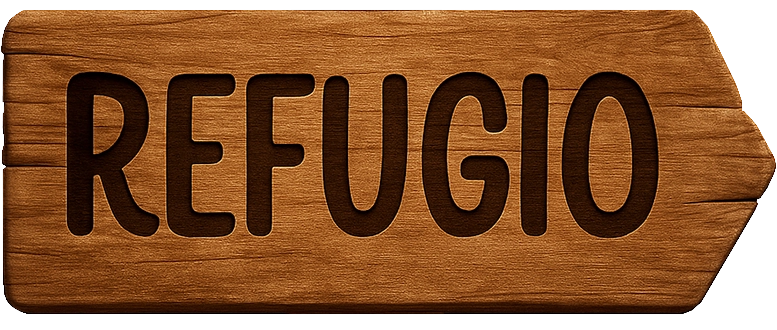
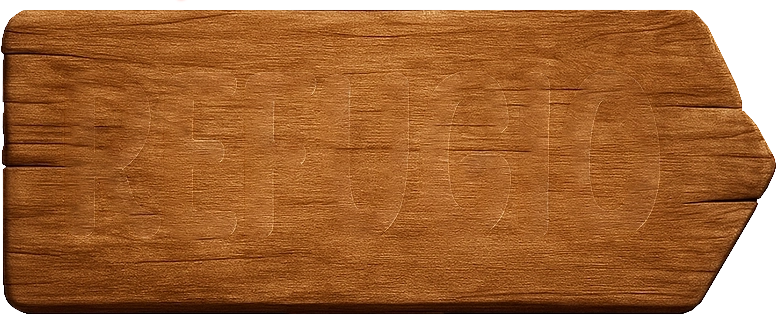
feat(style): Mejoras sobre el estilo del navbar

Changed region(s): [[0.0618, 0.2121, 0.8649, 0.7273]]

diff --git a/src/components/Navbar/Navbar.jsx b/src/components/Navbar/Navbar.jsx
@@ -6,19 +6,28 @@ const Navbar = () => {
   return (
     <nav className={styles.navbar}>
       <Link to="/">
-        <img src="/Cartel.webp" alt="Cartel Inicio" className={`${styles.cartel} ${styles.cartelInicio}`} />
+        <img src="/Cartel.webp" alt="Cartel Inicio" className={styles.cartel}/>
+        <span className={styles.texto}>Inicio</span>
       </Link>
+
       <Link to="/tienda">
-        <img src="/Cartel.webp" alt="Cartel Tienda" className={`${styles.cartel} ${styles.cartelTienda}`} />
+        <img src="/Cartel.webp" alt="Cartel Tienda" className={styles.cartel}/>
+        <span className={styles.texto}>Tienda</span>
       </Link>
+
       <Link to="/test">
-        <img src="/Cartel.webp" alt="Cartel Test" className={`${styles.cartel} ${styles.cartelTest}`} />
+        <img src="/Cartel.webp" alt="Cartel Test" className={styles.cartel}/>
+        <span className={styles.texto}>Test</span>
       </Link>
+
       <Link to="/login">
-        <img src="/Cartel.webp" alt="Cartel Login" className={`${styles.cartel} ${styles.cartelLogin}`} />
+        <img src="/Cartel.webp" alt="Cartel Login" className={styles.cartel}  />
+        <span className={styles.texto}>Login</span>
       </Link>
+
       <Link to="/registro">
-        <img src="/Cartel.webp" alt="Cartel Registro" className={`${styles.cartel} ${styles.cartelRegistro}`} />
+        <img src="/Cartel.webp" alt="Cartel Registro" className={styles.cartel}/>
+        <span className={styles.texto}>Registro</span>
       </Link>
     </nav>
   )

diff --git a/src/components/Navbar/Navbar.module.css b/src/components/Navbar/Navbar.module.css
@@ -2,34 +2,35 @@
   position: absolute;
   top: 0;
   left: 0;
-  z-index: 3; /* sobre el fondo */
+  z-index: 3; 
   display: flex;
   flex-direction: column;
-  gap: 15%; /* separación vertical */
+
 }
 
 .cartel {
-  height: 100px; /* Ajusta según quieras */
+  height: 75px; 
   object-fit: contain;
-}
-
-/* Posiciones individuales */
-.cartelInicio {
   margin-top: 5%;
 }
 
-.cartelTienda {
-  margin-top: 5%;
+
+
+.navbar a {
+  position: relative;
+  display: inline-block;
 }
 
-.cartelTest {
-  margin-top: 5%;
-}
-
-.cartelLogin {
-  margin-top: 5%;
-}
-
-.cartelRegistro {
-  margin-top: 5%;
+.texto {
+  position: absolute;
+  top: 50%;
+  left: 50%;
+  transform: translate(-50%, -50%);
+  font-family: 'Chewy';
+  font-size: 2rem;           
+  letter-spacing: 1px;
+  color: #000000;
+  text-shadow: 2px 2px 4px rgba(48, 43, 36, 0.6);
+  white-space: nowrap;
+  pointer-events: none;           
 }

diff --git a/src/pages/Home.jsx b/src/pages/Home.jsx
@@ -5,6 +5,7 @@ import Navbar from '@/components/Navbar/Navbar'
 import PerroCard from '../components/PerroCard/PerroCard'
 import usePerros from '../hooks/usePerros'
 import styles from './Home.module.css'
+import { s } from 'framer-motion/client'
 
 const Home = () => {
   const { data: perros, isLoading, error } = usePerros()
@@ -14,10 +15,10 @@ const Home = () => {
       <header className={styles.header}>
         <img src="/Header.png" alt="Header background" className={styles.background} />
         <img src="/Gua-logo.png" alt="Gua Logo" className={styles.logo} />
-
-        {/* Navbar de carteles */}
-        <Navbar />
       </header>
+        <div className={styles.layout}>
+          <Navbar />
+        </div>
       <div className={styles.wrapper}>
         {isLoading && <p>Cargando...</p>}
         {error && <p>Error: {error}</p>}

diff --git a/src/pages/Home.module.css b/src/pages/Home.module.css
@@ -44,17 +44,21 @@
   margin: 0 auto;
 }
 
-
-/* CSS: Home.module.css */
+.layout {
+  position: fixed;   /* lo sacamos del flujo normal */
+  top: 25px;            /* pegado arriba */
+  left: -30px;           /* pegado a la izquierda */
+  height: 100vh;     /* ocupa todo el alto de la pantalla */
+  z-index: 20;       /* encima del contenido */
+}
 
 .cartel {
   position: absolute;
-  height: 100px; /* Ajusta según quieras */
+  height: 100px; 
   object-fit: contain;
-  z-index: 3;    /* Para que quede sobre el fondo */
+  z-index: 3;    
 }
 
-/* Posiciones individuales */
 .cartelInicio {
   top: 5%; 
   left: -2%;

diff --git a/index.html b/index.html
@@ -11,9 +11,7 @@
   <link rel="preconnect" href="https://fonts.gstatic.com" crossorigin />
 
   <!-- Google Fonts -->
-  <link
-    href="https://fonts.googleapis.com/css2?family=Raleway:ital,wght@0,100..900;1,100..900&family=Special+Gothic+Condensed+One&display=swap"
-    rel="stylesheet">
+  <link href="https://fonts.googleapis.com/css2?family=Chewy&family=Raleway:ital,wght@0,100..900;1,100..900&family=Special+Gothic+Condensed+One&display=swap" rel="stylesheet">
 </head>
 
 <body>
